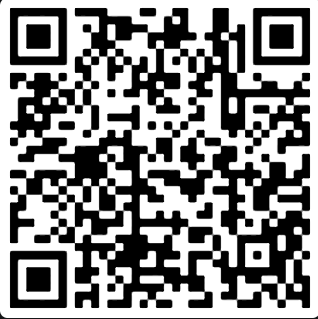
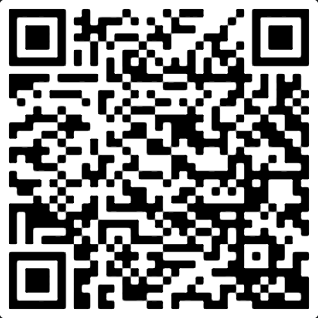
add readme

diff --git a/README.md b/README.md
@@ -28,7 +28,7 @@ Download from below
 
 <img src="./assets/images/preview/download.png" alt="App Screenshot" width="200"/>
 
-<a href="https://expo.dev/accounts/ranitjana/projects/movies/builds/069978c6-5297-4cb1-b673-470930b22109">Download<a>
+<a href="https://expo.dev/accounts/ranitjana/projects/movies/builds/46cd55bf-676a-4923-b058-24b2e1114f75">Download<a>
 
 ## Getting Started
 
